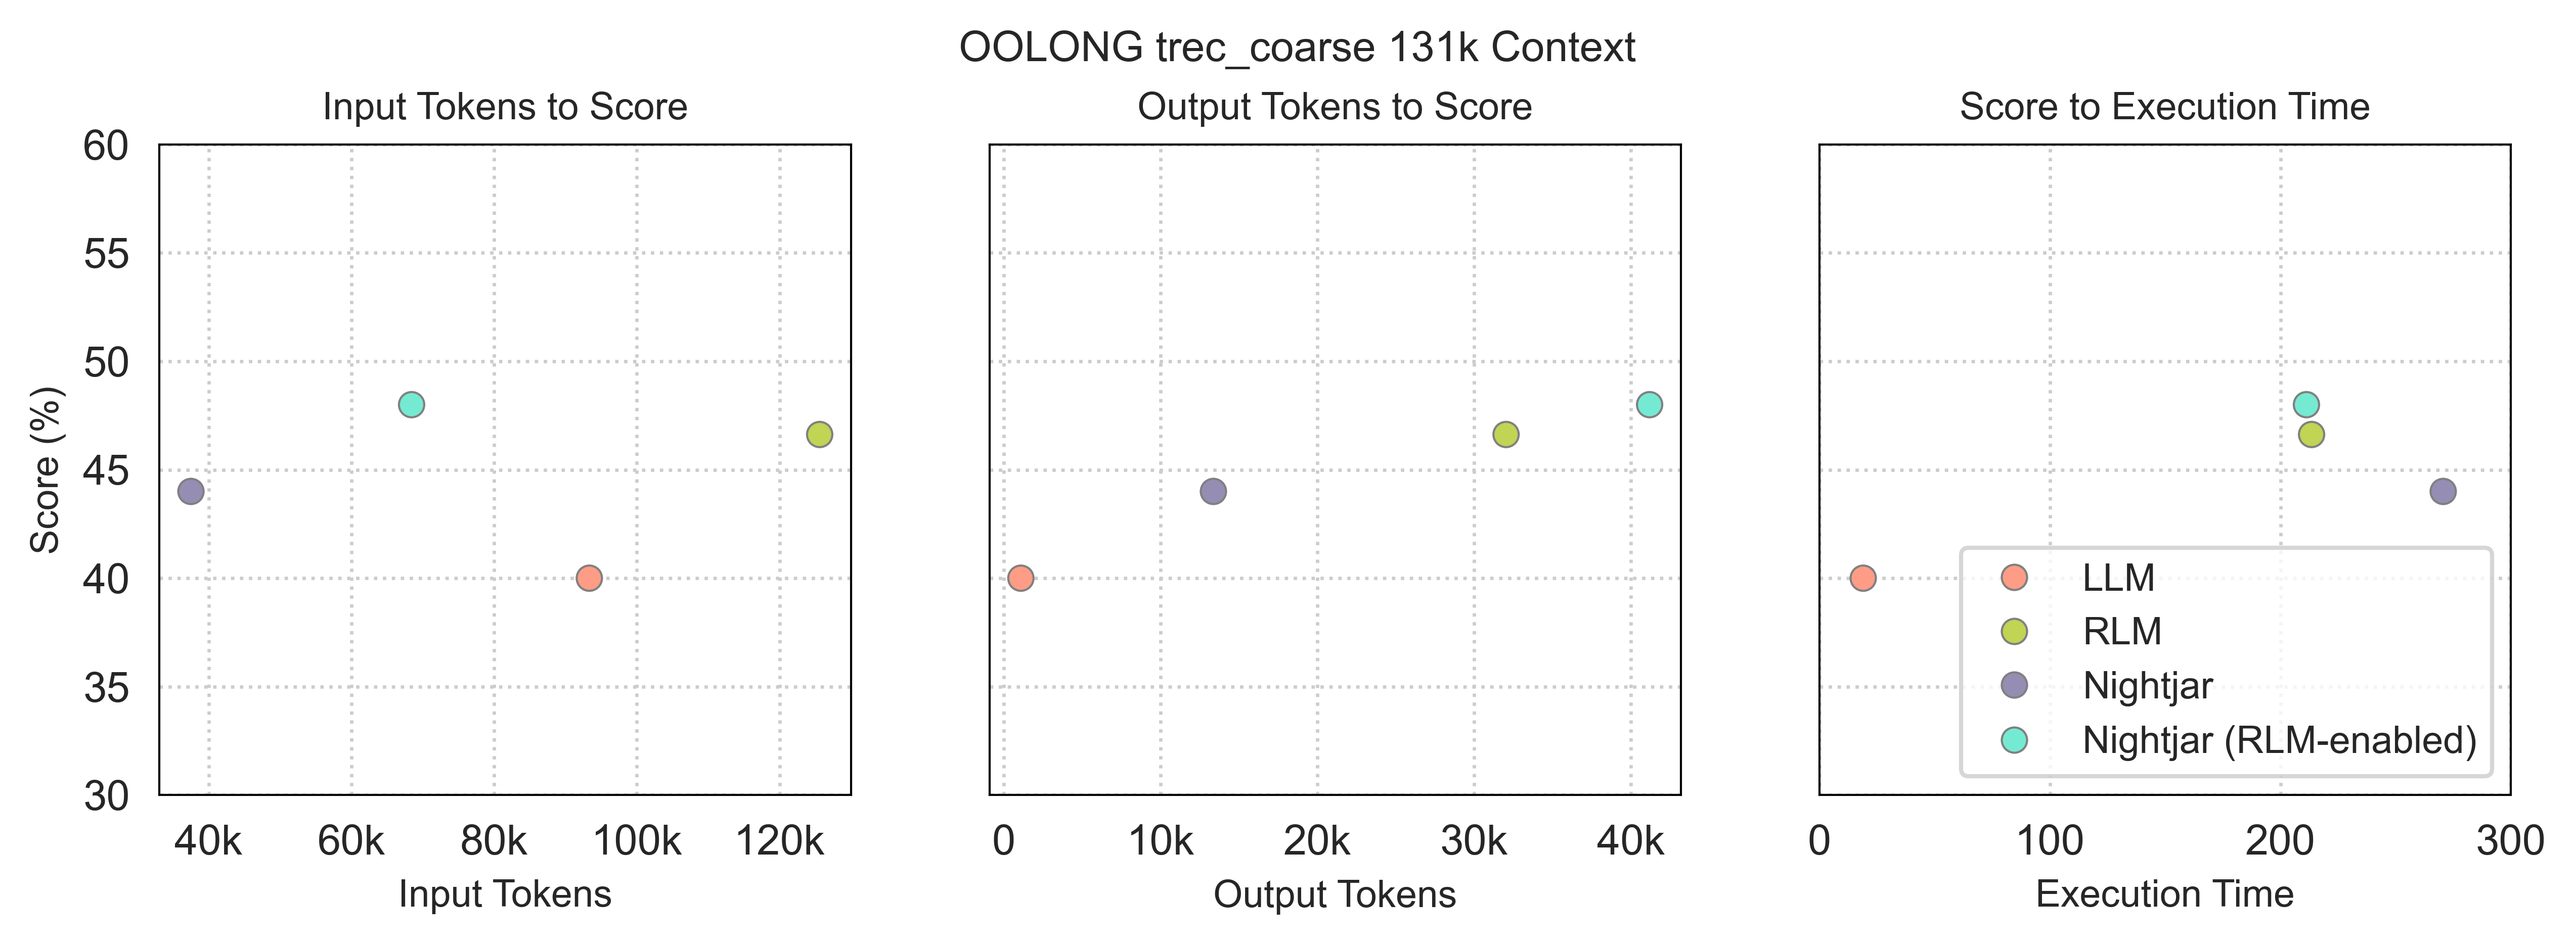
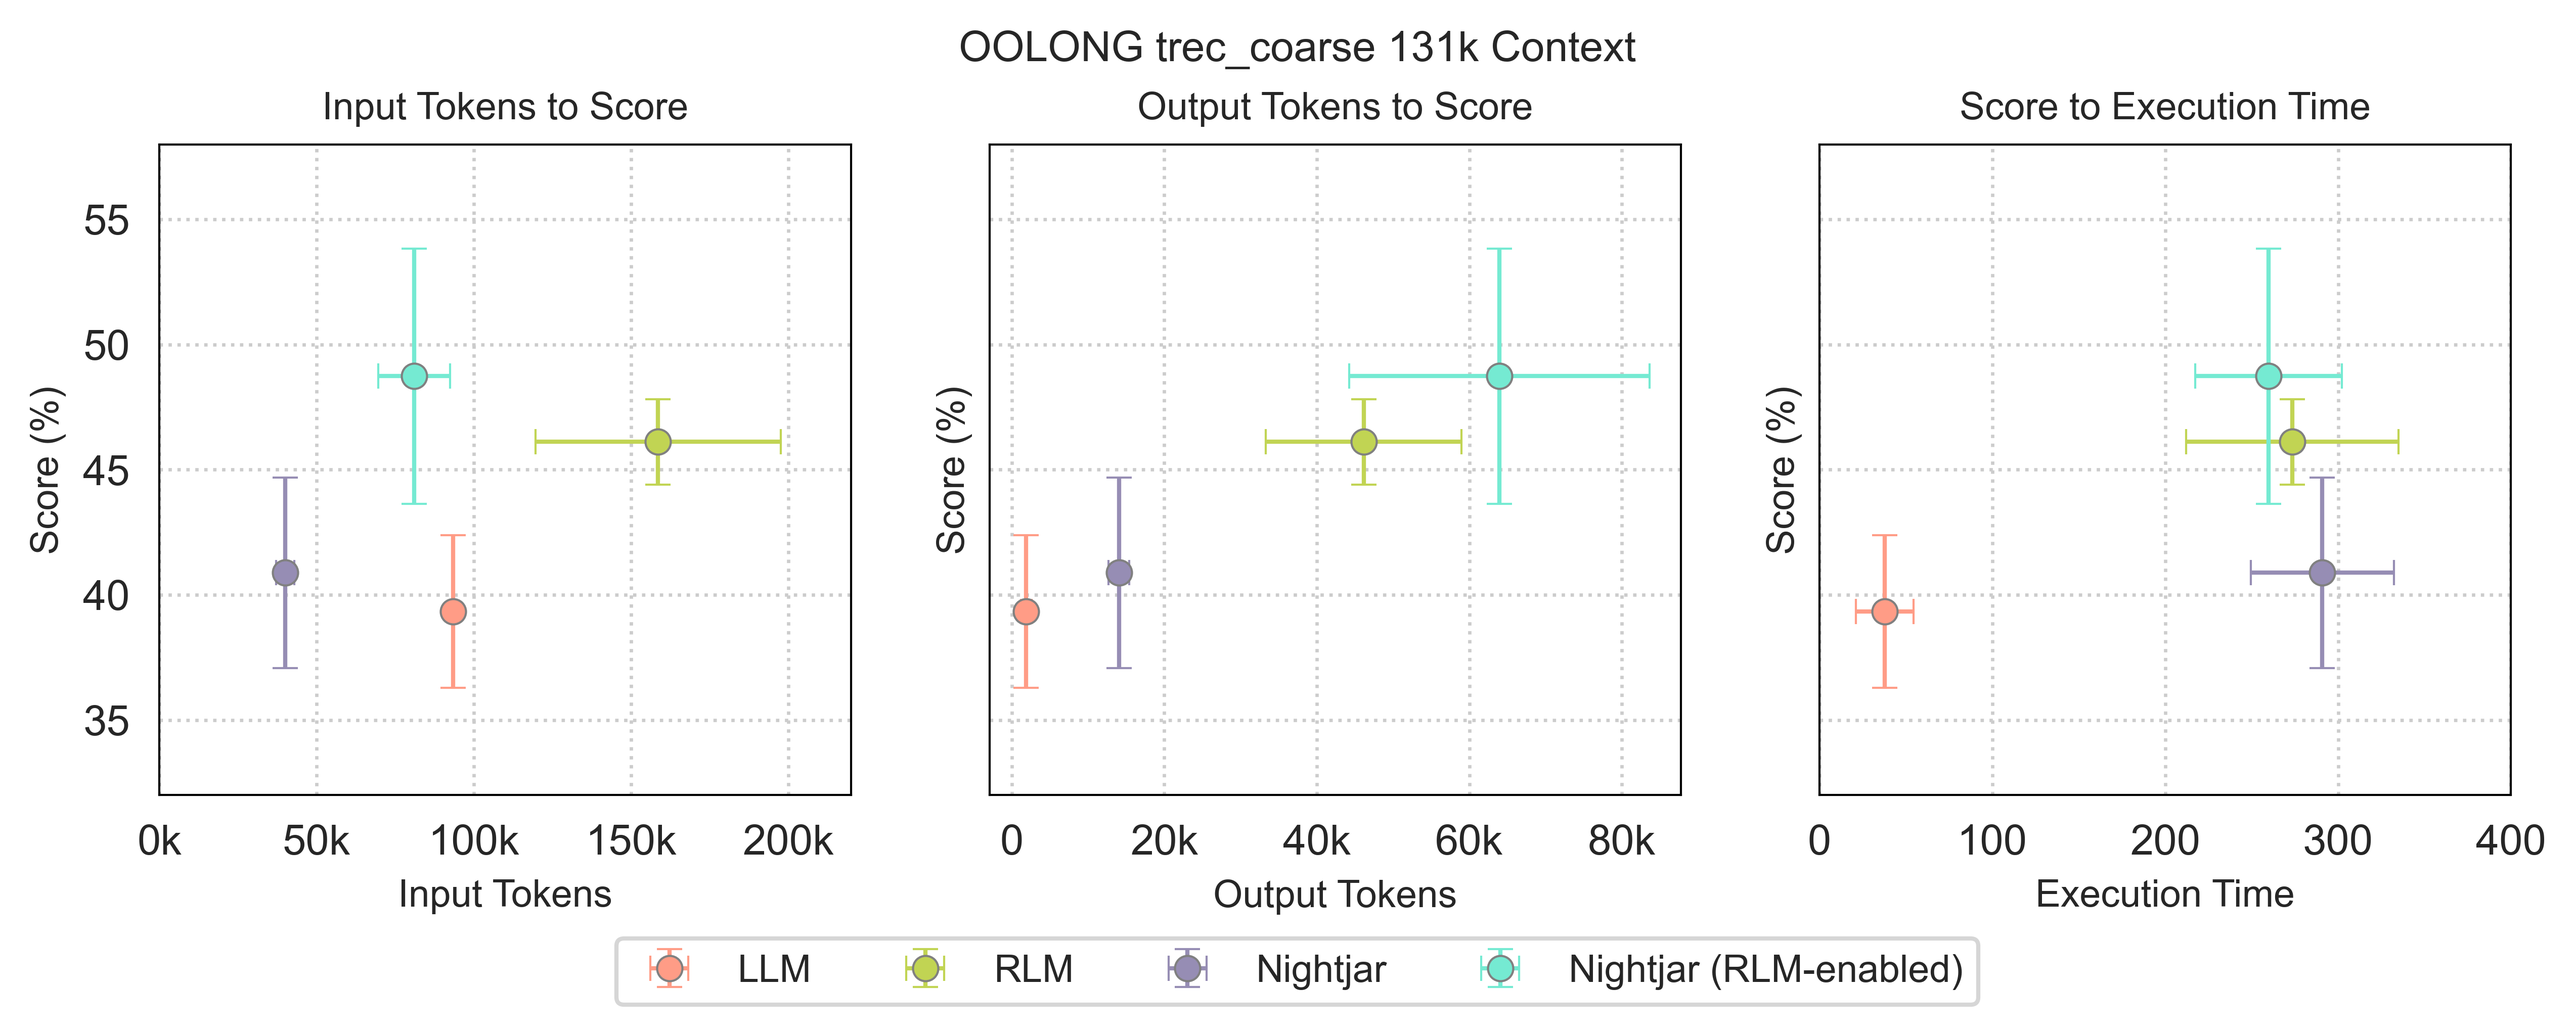
Update post

diff --git a/assets/css/post.scss b/assets/css/post.scss
@@ -145,3 +145,7 @@
     text-decoration: underline;
 }
 
+.fig-label {
+    font-size: 0.9em;
+    color: var(--primary);
+}

diff --git a/_posts/2026-01-20-enabling-rlm-with-shared-program-state.md b/_posts/2026-01-20-enabling-rlm-with-shared-program-state.md
@@ -15,15 +15,7 @@ layout: post
 css: post.css
 ---
 
-Redefining prompts as programs has been the central theme of programming system design around LLMs in recent years{% cite beurer2023prompting --file enabling-rlm-with-shared-program-state %}{% cite feng2024coprompt --file enabling-rlm-with-shared-program-state %}{% cite khattab2024dspy --file enabling-rlm-with-shared-program-state %}{% cite liang2025prompts --file enabling-rlm-with-shared-program-state %}. Prompts (which we call *natural code*, in contrast to *formal code* like Python) are on the way to becoming a powerful high-level programming language, but they are lacking as a primary programming medium when it comes to building large software and systems. 
-
-One challenge to using natural code as first-class programming constructs is the corrosion of the high-level abstraction afforded by natural language and LLM reasoning that makes it so attractive. As the community build tools and techniques to solve robustness and predictability issues in natural code without expensive training — such as structured output — the programmer is increasingly expected to write additional formal code to use natural code. 
-
-New mechanisms are needed to restore high-level abstraction when using natural code.
-
-Specifically, we have recently written a paper on a new programming abstraction to automate the necessary work when integrating embedded natural code in a (formal) program: *Sharing State Between Prompts and Programs*{% cite cheng2025sharing --file enabling-rlm-with-shared-program-state %}. The programming abstraction, **shared program state**, enables natural code to directly read/write program variables, manipulate program data, and implement control flow in the program. Shared program state automates the work of integrating natural code in programs by allowing LLMs to modify the program state through a controlled interface. With the paper, we also released the **Nightjar** Python library. 
-
-Orthogonal to this line of work is the work on Recursive Language Models (RLMs){% cite zhang2025recursive --file enabling-rlm-with-shared-program-state %}, which is an inference strategy for more effective long-context reasoning. What is interesting is that RLMs leverages the LLM to automate context management. The symmetry to shared program state of using an LLM for automated state management means programs using shared program state can easily use RLMs.
+Two recent lines of work have revealed a common design pattern of using LLM for automated state management. Recursive Language Models (RLMs){% cite zhang2025recursive --file enabling-rlm-with-shared-program-state %} automates the work of managing long prompt contexts using by allowing LLMs to self-decompose context prompts. Our recent paper on **shared program state**{% cite cheng2025sharing --file enabling-rlm-with-shared-program-state %} automates the work of integrating natural code in programs by allowing LLMs to modify the program state through a controlled interface. The common pattern of using an LLM for automated state management means programs using shared program state can easily use RLMs.
 
 In this blog post, we show how to enable the RLM inference strategy in only a few lines of code in a program with shared program state.
 
@@ -34,6 +26,20 @@ First, let’s talk about what the RLM inference strategy is: RLMs leverages the
 In short, enabling RLMs consists of enabling:
 1. LLM-driven context management, and
 2. Recursive LLM calls.
+
+The key insight here is that enabling RLM means enabling a limited form of *shared program state*, particularly in which the LLM uses Python and recursive LLM calls as its interface language to the state.
+
+## What is Shared Program State?
+
+Shared program state is a programming abstraction that offloads the work of managing LLM call inputs and outputs within a host program. Using shared program state, the embedded natural code directly read/write program variables, manipulate program data, and implement control flow in the program. The LLM agent that executes the natural code is setup to issue *effects*, which are distinguished requests of services to the host program; *handlers*, implemented in the host system, dispatch these effects with respect to the host program state. 
+
+<div class="center">
+<img src="/assets/images/posts/enabling-rlm-with-shared-program-state/example_diagram.png" style="width:90%" />
+</div>
+
+For example, in the figure above, <span class="fig-label">(a)</span> a program with embedded natural code (`"Perform the <query>..."`) using shared program state first executes as normal in the host system. <span class="fig-label">(b)</span> Executing the statement `query = input("Q: ")` makes the variable assignment to the variable `query` with user input, which is the string `"Exit, please."`. When encountering natural code, <span class="fig-label">(c)</span> the host system hands execution control to the LLM. The LLM issues effects to the program state to execute the natural code. Here, <span class="fig-label">(d)</span> the LLM issues a `Lookup` request to read the `query` variable. The handler resolves these effects by interface with the host program state: <span class="fig-label">(e)</span> The handler reads `query` from the shared variable scopes, <span class="fig-label">(f)</span> which has the value `"Exit please."` <span class="fig-label">(g)</span> The handler resumes natural code execution with the retrieved value, and the LLM continues executing the natural code. <span class="fig-label">(h)</span> the LLM issues another request `Goto`, to update the evaluation context to the `break` program value (i.e. outside the `while`-loop). This is an abortive effect, meaning that the handler does not resume natural code execution. Instead, <span class="fig-label">(i)</span> the handler updates the program control state, thus implementing control flow.
+
+In the above example, the LLM agent uses a specialized DSL (domain specific language) as effects. This interface language is referred to as the *execution substrate*. Other execution substrate designs are also possible, such as using Python code. We defer additional details of enabling shared program state to our paper {% cite cheng2025sharing --file enabling-rlm-with-shared-program-state %}. With the paper, we also released the **Nightjar** Python library that enables shared program state for natural code in Python programs.
 
 ## Enabling RLM in Programs with Shared Program State
 
@@ -71,12 +77,10 @@ Nightjar enables shared program state: the embedded natural code has direct read
 As discussed earlier, enabling RLM requires 1) LLM-driven context management, and 2) recursive LLM calls. With shared program state, Nightjar automatically enables the first. Nightjar also supports configuration to do the second.
 
 <span class="para">LLM Context Management.</span>
-To enable shared program state, Nightjar uses an LLM agent to interface with the host program state. This is done using *effects* and *handlers*, the details of which we defer to the paper {% cite cheng2025sharing --file enabling-rlm-with-shared-program-state %}. The relevant takeaway here is that the LLM automatically performs state management, where the state is the host program state. 
-
-When using an RLM to perform LLM inference in a program, the context prompt is a part of the host program state. This means that Nightjar automatically enables LLM-driven context management.
+To enable shared program state, Nightjar uses an LLM agent to interface with the host program state through effects and handlers. In doing so, the LLM automatically performs state management, where the state is the host program state. When using an RLM to perform LLM inference in a program, the context prompt is a part of the host program state. This means that Nightjar automatically enables LLM-driven context management.
 
 <span class="para">Recursive LLM Calls.</span>
-Nightjar supports a number of *execution substrates*. An execution substrate is the method or interface by which the LLM accesses the program state. One of the supported execution substrate is using Python code. Additionally, programmers can configure whether the LLM agent can issue LLM calls in the Python code. Recursive LLM calls are enabled by setting the interpreter execution substrate as `PYTHON_LLM` (as opposed to `PYTHON` which does not enable recursive LLM calls). 
+Nightjar supports a number of execution substrates, the method or interface by which the LLM accesses the program state. One of the supported execution substrate is using Python code. Additionally, programmers can configure whether the LLM agent can issue LLM calls in the Python code. Recursive LLM calls are enabled by setting the execution substrate as `PYTHON_LLM` (as opposed to `PYTHON` which does not enable recursive LLM calls). 
 
 ```python
 import nightjarpy as nj
@@ -87,7 +91,7 @@ config = nj.configs.DEFAULT_CONFIG.with_interpreter_updates(
 )
 ```
 
-Setting `recursion_limit` to greater than 1 also enables nested natural blocks that uses shared program state.
+Setting `recursion_limit` to greater than 1 enables nested natural blocks that uses shared program state.
 
 Nightjar provides recommended preset configurations. Specifically, `INTERPRETER_PYTHON_LLM_JSON_CONFIG` is the preset configuration corresponding to RLMs.
 
@@ -112,7 +116,7 @@ We evaluated the above program to show that using RLMs through Nightjar achieves
 
 ### Methodology
 
-We evaluated the tasks with context window length of 131k, following the RLM paper{% cite zhang2025recursive --file enabling-rlm-with-shared-program-state %}. We also follow their experimental setup to use GPT-5 with medium reasoning effort as the root LLM and GPT-5-mini with medium reasoning as the sub-LLMs and to set recursion depth limit to 1.
+We evaluated the tasks with context window length of 131k, following the RLM paper{% cite zhang2025recursive --file enabling-rlm-with-shared-program-state %}. We also follow their experimental setup to use GPT-5 with medium reasoning effort as the root LLM and GPT-5-mini with medium reasoning as the sub-LLMs and to set recursion depth limit to 1. We ran the benchmarks for N=3 runs and report the mean and standard deviation of metrics across runs.
 
 We compare the performance of the following methods:
 
@@ -123,13 +127,13 @@ We compare the performance of the following methods:
 
 ### Results
 
-As shown below, Nightjar (RLM-Enabled) achieves a slightly higher score to RLM, demonstrating that using the RLM mode in Nightjar is a competitive alternative to using RLM via the official implementation. The Nightjar ablation without recursive LLM calls achieves better score than the base LLM, but performs slightly worse than RLM and Nightjar (RLM-Enabled). This demonstrates that the agent setup with shared program state already enables some accuracy improvements, and the recursive LLM calls further boosts accuracy.
+As shown below, Nightjar (RLM-Enabled) achieves a slightly higher score to RLM, demonstrating that using the RLM mode in Nightjar is a competitive alternative to using RLM via the official implementation. The Nightjar ablation without recursive LLM calls achieves comparable score to the base LLM, but performs worse than RLM and Nightjar (RLM-Enabled). This demonstrates that the agent setup does not significantly result in accuracy improvements, but the recursive LLM calls does boost accuracy.
 
 <div class='center'>
-<img src="/assets/images/posts/enabling-rlm-with-shared-program-state/oolong_score.png" style="width:60%"/>
+<img src="/assets/images/posts/enabling-rlm-with-shared-program-state/oolong_score.png" style="width:55%"/>
 </div>
 
-Below are plots comparing input tokens and execution time of using each method. The y-axis shows the score. 
+Below are plots comparing input tokens, output tokens, and execution time of using each method. The y-axis shows the score. 
 
 <div class='center'>
 <img src="/assets/images/posts/enabling-rlm-with-shared-program-state/oolong_inp_time.png" style="width:100%"/>
@@ -137,9 +141,9 @@ Below are plots comparing input tokens and execution time of using each method. 
 
 RLM uses the most input tokens, while Nightjar (RLM-enabled) uses the most output tokens. Notably, the base LLM uses more input tokens than Nightjar and Nightjar (RLM-enabled) but has the lowest score. This shows that LLM in Nightjar and Nightjar (RLM-enabled) can manage the context efficiently. 
 
-Nightjar (RLM-enabled) has similar execution time to the official RLM implementation. RLM, Nightjar, and Nightjar (RLM-enabled) are 11-14x slower than using the base LLM as they rely on an LLM agent.
+Nightjar (RLM-enabled) has similar execution time to the official RLM implementation. RLM, Nightjar, and Nightjar (RLM-enabled) are 6.9-7.7x slower than using the base LLM as they rely on an LLM agent.
 
-Using RLM-mode in Nightjar is a comparable to using the official RLM implementation on tasks like the above, where the context is represented as a long string of data. Nightjar also provides other benefits when writing programs because it enables shared program state.
+Using the RLM inference strategy in Nightjar is a comparable to using the official RLM implementation on tasks like the above, where the context is represented as a long string of data. Nightjar also provides other benefits when writing programs because it enables shared program state.
 
 ## State is More Than Text
 
